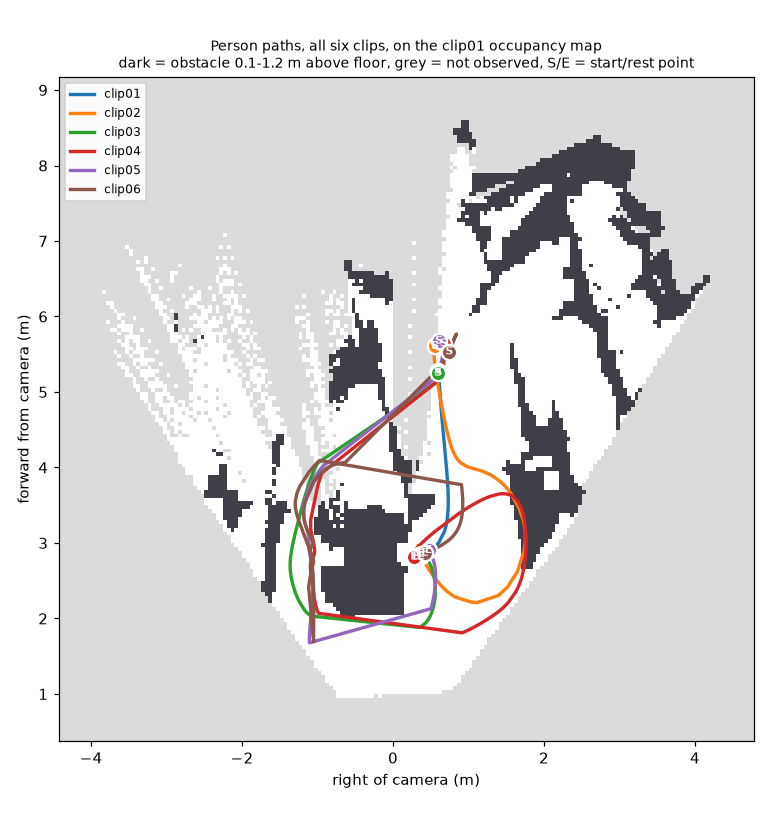
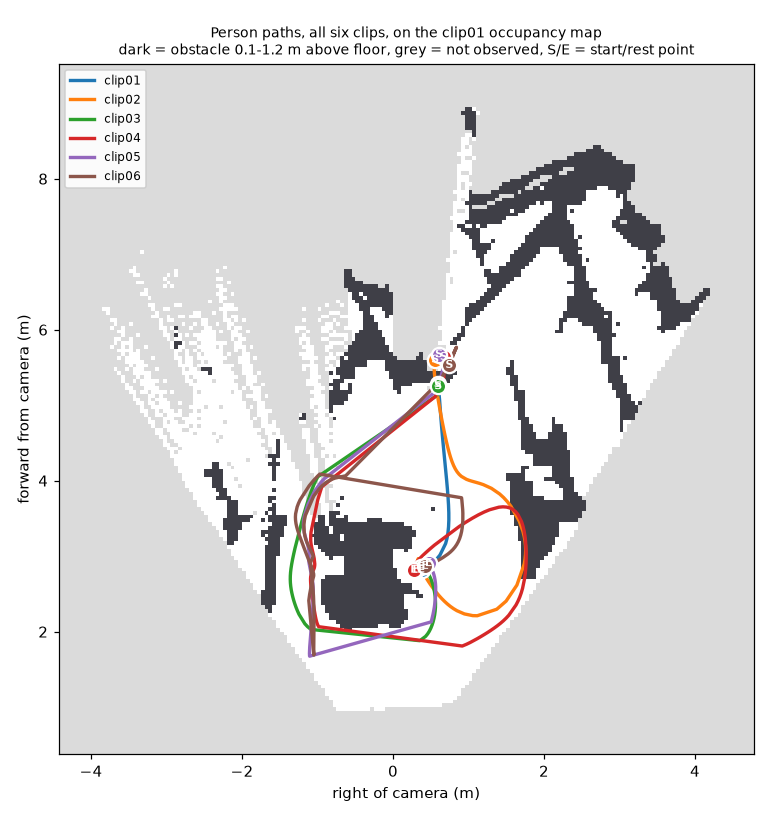
Paths: plates via static.process_clip (current cache), start snapped into open space, rest windows in paths.json; refresh figures and tables

Changed region(s): [[0.0312, 0.0303, 0.9974, 0.9697], [0.0312, 0.3636, 0.0623, 0.3939]]

diff --git a/tools/make_paths.py b/tools/make_paths.py
@@ -4,7 +4,6 @@
 """
 import argparse
 import json
-import pickle
 import sys
 from pathlib import Path
 
@@ -13,24 +12,17 @@ import numpy as np
 
 sys.path.insert(0, str(Path(__file__).resolve().parents[1]))
 from rayvote import paths as P  # noqa: E402
-from rayvote.pipeline import video_sig  # noqa: E402
 from rayvote.static import WORK_W  # noqa: E402
 
 COLS = ["#1f77b4", "#ff7f0e", "#2ca02c", "#d62728", "#9467bd", "#8c564b"]
 
 
 def load_plates(videos, cache, log):
-    out = []
-    for v in videos:
-        f = Path(cache) / f"clip_{video_sig([v], {'w': WORK_W, 'v': 3})}.pkl"
-        if f.exists():
-            out.append(pickle.load(open(f, "rb")))
-        else:
-            import torch
-            from rayvote.static import make_models, process_clip
-            dev = "cuda" if torch.cuda.is_available() else "cpu"
-            out.append(process_clip(v, Path(cache), make_models(dev), log))
-    return out
+    """Plates + depth through rayvote.static.process_clip (cached by `make real`; models load lazily)."""
+    import torch
+    from rayvote.static import make_models, process_clip
+    models = make_models("cuda" if torch.cuda.is_available() else "cpu")
+    return [process_clip(v, Path(cache), models, log) for v in videos]
 
 
 # ---------------------------------------------------------------- endpoints

diff --git a/rayvote/paths.py b/rayvote/paths.py
@@ -478,8 +478,11 @@ def plan(g, grid, start_xy, goal_xy, radius=ROBOT_R, unknown_cost=3.0):
     seen = cv2.dilate((g != UNKNOWN).astype(np.uint8), np.ones((9, 9), np.uint8)) > 0
     blocked_all = blocked | ~seen
     cost = np.where(g == UNKNOWN, unknown_cost, 1.0)
-    s = nearest_free(blocked_all, grid.idx(start_xy)[0])
-    n, lab = cv2.connectedComponents((~blocked_all).astype(np.uint8), connectivity=4)
+    # snap the start into a sizeable free region (not a pocket between depth specks), the goal into
+    # the part of the free space reachable from there
+    n, lab, st, _ = cv2.connectedComponentsWithStats((~blocked_all).astype(np.uint8), connectivity=4)
+    big = np.isin(lab, np.flatnonzero(st[1:, cv2.CC_STAT_AREA] >= 400) + 1)
+    s = nearest_free(~big, grid.idx(start_xy)[0])
     reach = lab == lab[s]
     e = nearest_free(~reach, grid.idx(goal_xy)[0])
     snap = (float(np.linalg.norm(grid.xy(np.array(s))[0] - start_xy)),

diff --git a/tools/make_paths_vis.py b/tools/make_paths_vis.py
@@ -155,6 +155,8 @@ def build_all(videos, names, plates, depths, scene, tracks, grounds, eps, out, l
         row = {"clip": n, "start_xy": [round(float(v), 2) for v in ep["start_xy"]],
                "end_xy": [round(float(v), 2) for v in ep["end_xy"]],
                "start_t_s": round(ep["start_t"], 2), "end_t_s": round(ep["end_t"], 2),
+               "end_rest_window_s": [round(ep["end_window_t"][0], 2), round(ep["end_window_t"][1], 2)],
+               "start_cue": ep["start_cue"], "end_cue": ep["end_cue"],
                "start_frame": int(round(ep["start_t"] * 30)), "end_frame": int(round(ep["end_t"] * 30)),
                "start_conf": ep["start_conf"], "end_conf": ep["end_conf"],
                "human_length_m": round(L, 2), "human_duration_s": round(dur, 2),

diff --git a/docs/NAVIGATION.md b/docs/NAVIGATION.md
@@ -37,7 +37,8 @@ never saw (the person was standing there) borrow the majority vote of the other 
 
 **Planner.** 8-connected A* on the grid inflated by a 0.25 m robot radius; unknown cells cost 3x, and
 unknown cells away from anything observed are not allowed. Start and goal snap to the nearest free
-cell reachable from the start, and the snap distance is reported. The plan is shortened by
+cell reachable from the start, and the snap distance is reported (the starts move 0.06-0.30 m out of
+the inflated chair by the pillar). The plan is shortened by
 line-of-sight shortcutting. "Previous plan blocked" = the previous clip's plan crosses this clip's
 inflated obstacles.
 
@@ -46,10 +47,10 @@ inflated obstacles.
 | clip | start (x, y) m | start t / frame | start cue, conf | end (x, y) m | end t / frame | rest window | end cue, conf |
 |---|---|---|---|---|---|---|---|
 | clip01 | (5.28, -0.59) | 0.13 s / 4 | pose, medium | (2.82, -0.38) | 5.40 s / 162 | 3.1-6.5 s | foot, high |
-| clip02 | (5.61, -0.56) | 0.00 s / 0 | pose, medium | (2.82, -0.31) | 8.67 s / 260 | 7.9-8.9 s | foot, high |
+| clip02 | (5.60, -0.56) | 0.00 s / 0 | pose, medium | (2.82, -0.31) | 8.67 s / 260 | 7.9-8.9 s | foot, high |
 | clip03 | (5.25, -0.60) | 0.00 s / 0 | pose, medium | (2.85, -0.38) | 11.27 s / 338 | 9.8-11.3 s | foot, high |
 | clip04 | (5.64, -0.67) | 0.60 s / 18 | pose, medium | (2.82, -0.28) | 14.47 s / 434 | 14.2-16.0 s | foot, high |
-| clip05 | (5.68, -0.61) | 0.00 s / 0 | pose, medium | (2.90, -0.47) | 13.47 s / 404 | 12.6-15.8 s | foot, high |
+| clip05 | (5.67, -0.61) | 0.00 s / 0 | pose, medium | (2.91, -0.48) | 13.47 s / 404 | 12.6-15.8 s | foot, high |
 | clip06 | (5.53, -0.75) | 0.00 s / 0 | pose, medium | (2.87, -0.43) | 18.40 s / 552 | 16.3-18.7 s | foot, high |
 
 In every clip the person starts at the back by the pillar with the feet hidden by a chair (hence the
@@ -60,30 +61,31 @@ pose cue), and comes to rest at the right-hand end of the front table. The six s
 
 | clip | human path | duration | mean speed | robot plan | human min clearance | human path inside inflated map | robot min clearance | robot stops short of E | previous plan blocked |
 |---|---|---|---|---|---|---|---|---|---|
-| clip01 | 2.70 m | 5.3 s | 0.51 m/s | 2.60 m | 0.20 m | 22 % | 0.29 m | 0.05 m | - |
-| clip02 | 5.51 m | 8.7 s | 0.64 m/s | 2.27 m | 0.00 m | 58 % | 0.26 m | 0.76 m | yes |
-| clip03 | 7.22 m | 11.3 s | 0.64 m/s | 2.05 m | 0.05 m | 49 % | 0.28 m | 0.56 m | no |
-| clip04 | 10.17 m | 13.9 s | 0.73 m/s | 2.26 m | 0.00 m | 54 % | 0.26 m | 0.82 m | yes |
-| clip05 | 7.38 m | 13.5 s | 0.55 m/s | 2.87 m | 0.00 m | 44 % | 0.29 m | 0.02 m | no |
-| clip06 | 10.84 m | 18.4 s | 0.59 m/s | 2.79 m | 0.00 m | 46 % | 0.30 m | 0.01 m | no |
+| clip01 | 2.71 m | 5.3 s | 0.51 m/s | 2.37 m | 0.00 m | 29 % | 0.27 m | 0.05 m | - |
+| clip02 | 5.50 m | 8.7 s | 0.63 m/s | 2.82 m | 0.00 m | 66 % | 0.27 m | 0.42 m | yes |
+| clip03 | 7.22 m | 11.3 s | 0.64 m/s | 1.66 m | 0.05 m | 56 % | 0.26 m | 0.69 m | yes |
+| clip04 | 10.17 m | 13.9 s | 0.73 m/s | 2.55 m | 0.00 m | 56 % | 0.27 m | 0.64 m | yes |
+| clip05 | 7.37 m | 13.5 s | 0.55 m/s | 3.05 m | 0.00 m | 47 % | 0.27 m | 0.02 m | yes |
+| clip06 | 10.84 m | 18.4 s | 0.59 m/s | 2.93 m | 0.00 m | 53 % | 0.28 m | 0.01 m | no |
 
 Clearance is distance to the nearest obstacle cell; "inside inflated map" is the fraction of the human
 path closer than 0.25 m to an obstacle, i.e. where a 0.5 m-wide robot could not follow.
 
 ![person paths](real/paths/person_paths.png)
 
-**Replanning story.** clip01 has a direct lane from the pillar to the table and the plan follows the
-person almost exactly (2.60 m vs 2.70 m). In clip02 the chair added in the right foreground lands on
-that lane (green in the GIF): the clip01 plan is blocked, and the rest spot is now 0.76 m inside the
-inflated chair/table gap, so the robot stops short above the chair. In clip04 the clip03 plan is
-blocked again, but by obstacle cells right of the table end (depth noise around the right-hand chair),
-not by the new left-foreground chair, which is off the route. In clip05 the right-foreground chair moves to the front
-centre, the gap at the table end reopens, and the robot reaches the person's rest spot again (0.02 m).
-With one fixed task (median start to median end) the plan changes in clip02 and clip05, the two clips
-where the chairs on the path change.
+**Replanning story.** In clip01 the lane from the pillar to the right-hand end of the table is open and
+the plan runs next to the person's own path (2.37 m against 2.71 m). clip02 adds a chair in the right
+foreground, right at that end of the table (green in the GIF): the clip01 plan is blocked, and the
+person's rest spot is now inside the inflated chair/table gap, so the robot has to stop 0.42 m short of
+it. That stays true in clip03 and clip04 (0.69 m and 0.64 m short); the clip03 and clip04 "blocked"
+flags come from the same gap plus depth noise around it, while clip04's new left-foreground chair is off
+the route. In clip05 that chair moves to the front centre: the clip04 plan is flagged blocked once more (it
+ended in the gap, whose outline shifts), but the gap itself reopens and the new plan reaches the rest
+spot (0.02 m), as in clip06. With one fixed task for all maps (median start to median end) the
+plan changes in clip02, clip03 and clip05.
 
 From clip02 on the person takes a long detour (round the left of the table and along the front, 5-11 m
-against a 2.1-2.9 m plan). The map leaves a 0.5 m lane past the pillar chair, so the detour is not forced
+against a 1.7-3.1 m plan). The map leaves a 0.5 m lane past the pillar chair, so the detour is not forced
 by the obstacles the map sees; it may be part of how the clips were staged, or a gap a person would
 rather not squeeze through.
 
@@ -101,7 +103,7 @@ rather not squeeze through.
 - **Single viewpoint.** Space behind furniture is unknown. Occupancy is 2.5D from one side, so the backs
   of chairs and the floor under tables are inferred, not seen. Change highlights in `replan.gif` also show
   depth-alignment noise far from the camera, not only the moved chairs.
-- **Feet occlusion.** 19-35 % of samples per clip come from visible feet and 22-47 % from the pose cue
+- **Feet occlusion.** 19-58 % of samples per clip come from visible feet and 22-48 % from the pose cue
   (median error 0.15-0.6 m against visible-feet frames); the rest are dropped (no confident person, or
   inconsistent). Near the camera the feet drop below the image, so the paths along the bottom edge are
   interpolated through those gaps.
